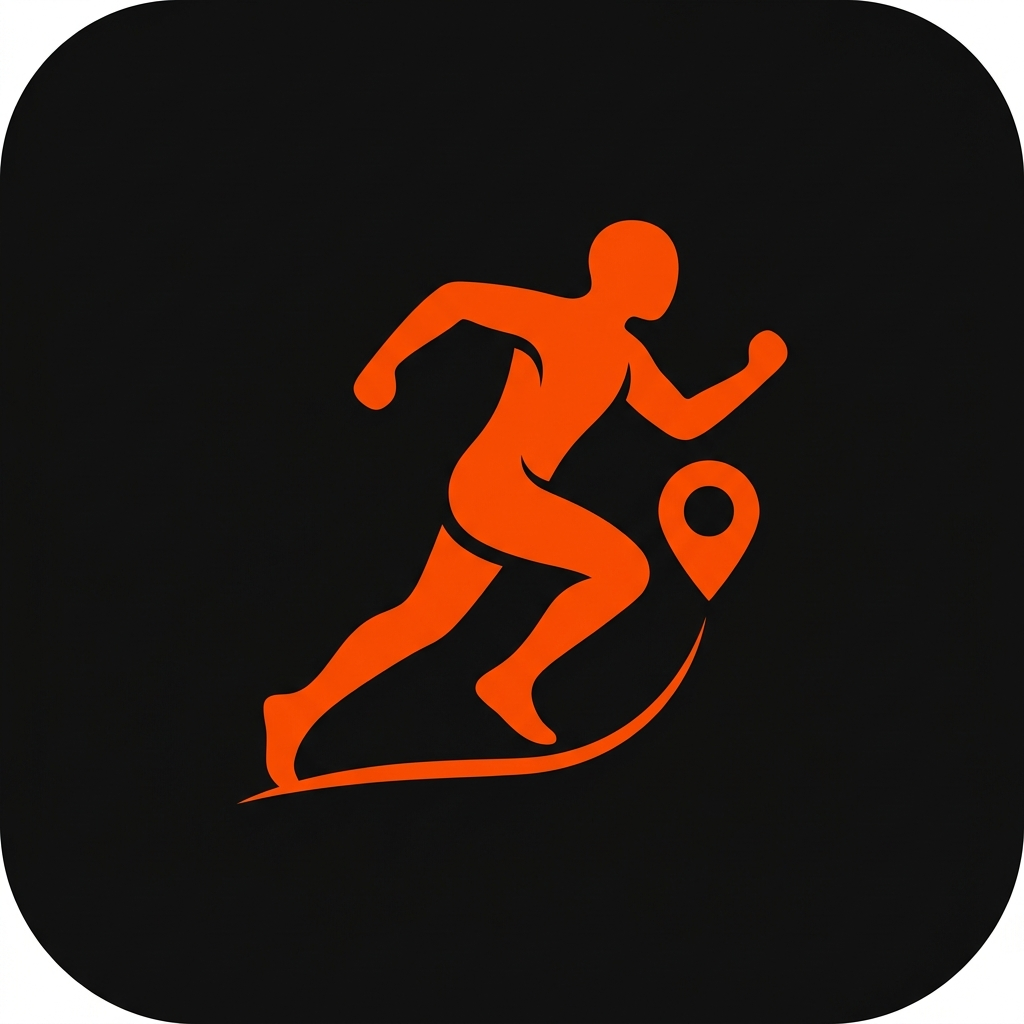
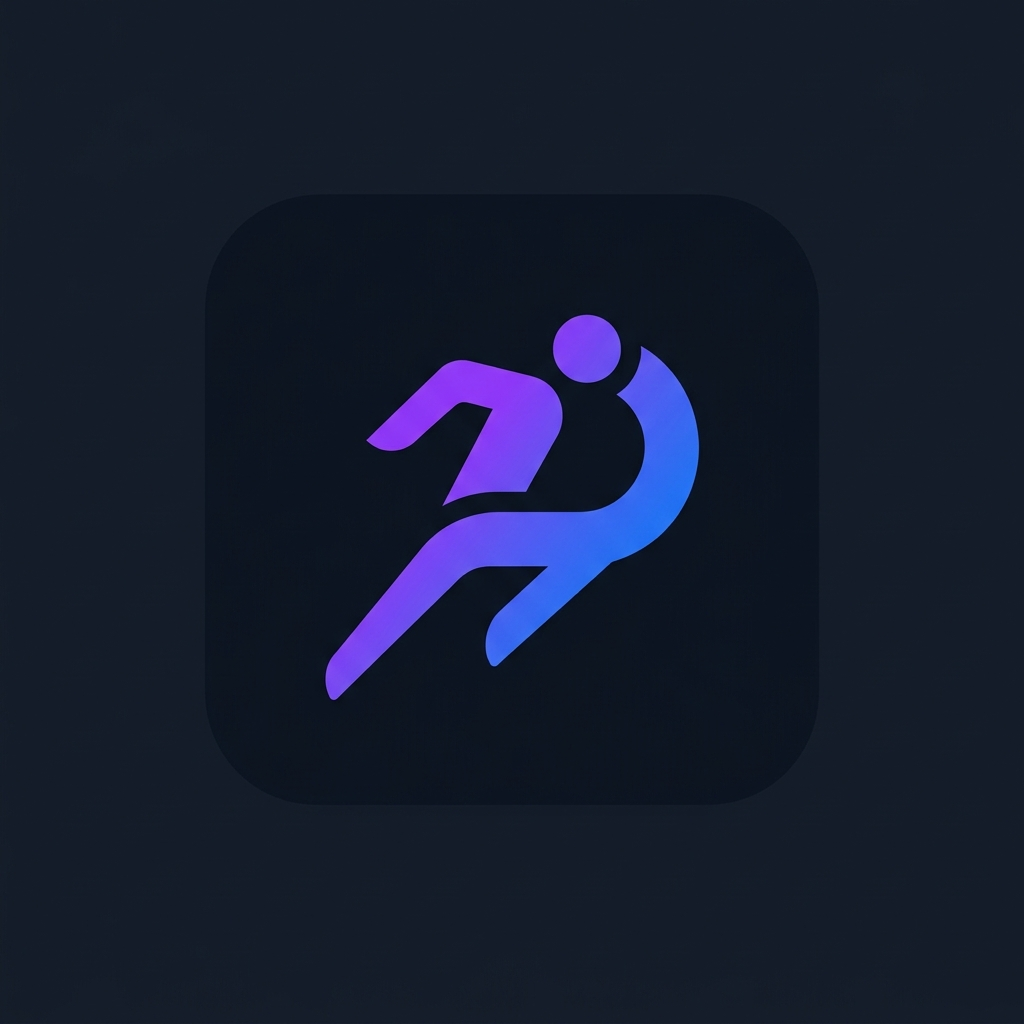
PACEMEET-full-rebrand-purple-blue-poppins

diff --git a/css/index.css b/css/index.css
@@ -1,8 +1,8 @@
 /* ============================================
-   RunTracker PWA — Design System & Base Styles
+   PACEMEET — Design System & Base Styles
    ============================================ */
 
-@import url('https://fonts.googleapis.com/css2?family=Inter:wght@400;500;600;700;800&display=swap');
+@import url('https://fonts.googleapis.com/css2?family=Poppins:wght@400;500;600;700;800&display=swap');
 
 /* === RESET === */
 *, *::before, *::after {
@@ -12,20 +12,21 @@
 }
 
 :root {
-  --bg-primary: #0d0d0d;
-  --bg-secondary: #1a1a1a;
-  --bg-tertiary: #2a2a2a;
-  --bg-elevated: #333333;
-  --accent: #FC4C02;
-  --accent-hover: #E8450A;
-  --accent-glow: rgba(252, 76, 2, 0.3);
-  --accent-subtle: rgba(252, 76, 2, 0.1);
+  --bg-primary: #111827;
+  --bg-secondary: #1E2536;
+  --bg-tertiary: #2D3548;
+  --bg-elevated: #374151;
+  --accent: #7C3AED;
+  --accent-hover: #6D28D9;
+  --accent-glow: rgba(124, 58, 237, 0.35);
+  --accent-subtle: rgba(124, 58, 237, 0.12);
+  --accent-secondary: #2563EB;
   --text-primary: #FFFFFF;
-  --text-secondary: #A0A0A0;
-  --text-muted: #666666;
-  --success: #00C853;
-  --warning: #FFD600;
-  --danger: #FF1744;
+  --text-secondary: #9CA3AF;
+  --text-muted: #6B7280;
+  --success: #10B981;
+  --warning: #F59E0B;
+  --danger: #EF4444;
   --space-xs: 4px;
   --space-sm: 8px;
   --space-md: 16px;
@@ -54,7 +55,7 @@ html {
 }
 
 body {
-  font-family: 'Inter', -apple-system, BlinkMacSystemFont, sans-serif;
+  font-family: 'Poppins', -apple-system, BlinkMacSystemFont, sans-serif;
   background: var(--bg-primary);
   color: var(--text-primary);
   height: 100%;

diff --git a/index.html b/index.html
@@ -3,11 +3,11 @@
 <head>
   <meta charset="UTF-8">
   <meta name="viewport" content="width=device-width, initial-scale=1.0, maximum-scale=1.0, user-scalable=no, viewport-fit=cover">
-  <meta name="theme-color" content="#FC4C02">
-  <meta name="description" content="RunTracker — App de corrida com GPS. Registre suas corridas, acompanhe distância, ritmo e rota em tempo real.">
+  <meta name="theme-color" content="#7C3AED">
+  <meta name="description" content="PACEMEET — Conectando pessoas através do mesmo ritmo. Registre suas corridas, acompanhe distância, ritmo e rota em tempo real.">
   <meta name="apple-mobile-web-app-capable" content="yes">
   <meta name="apple-mobile-web-app-status-bar-style" content="black-translucent">
-  <title>RunTracker — App de Corrida</title>
+  <title>PACEMEET — Conectando pelo ritmo</title>
   <link rel="manifest" href="manifest.json">
   <link rel="apple-touch-icon" href="icons/icon-192x192.png">
   <link rel="icon" type="image/png" href="icons/icon-192x192.png">
@@ -15,7 +15,7 @@
   <!-- Fonts -->
   <link rel="preconnect" href="https://fonts.googleapis.com">
   <link rel="preconnect" href="https://fonts.gstatic.com" crossorigin>
-  <link href="https://fonts.googleapis.com/css2?family=Inter:wght@400;500;600;700;800&display=swap" rel="stylesheet">
+  <link href="https://fonts.googleapis.com/css2?family=Poppins:wght@400;500;600;700;800&display=swap" rel="stylesheet">
 
   <!-- Leaflet CSS -->
   <link rel="stylesheet" href="https://unpkg.com/leaflet@1.9.4/dist/leaflet.css"
@@ -40,13 +40,14 @@
         <div class="onboarding-header">
           <div class="onboarding-logo">
             <div class="onboarding-logo-icon">
-              <svg width="40" height="40" viewBox="0 0 24 24" fill="none" stroke="#FC4C02" stroke-width="2" stroke-linecap="round" stroke-linejoin="round">
-                <circle cx="12" cy="12" r="10"/>
-                <polyline points="12 6 12 12 16 14"/>
+              <svg width="40" height="40" viewBox="0 0 24 24" fill="none" stroke="#7C3AED" stroke-width="2" stroke-linecap="round" stroke-linejoin="round">
+                <circle cx="12" cy="5" r="2.5" fill="#7C3AED" stroke="none"/>
+                <path d="M7 20l3-8 2.5 2.5L16 10" stroke-width="2.5"/>
+                <path d="M17 7l-4 3" stroke-width="2.5"/>
               </svg>
             </div>
-            <h1 class="onboarding-title">Run<span class="accent">Tracker</span></h1>
-            <p class="onboarding-subtitle">Seu app de corrida pessoal</p>
+            <h1 class="onboarding-title">PACE<span class="accent">MEET</span></h1>
+            <p class="onboarding-subtitle">Conectando pessoas através do mesmo ritmo.</p>
           </div>
         </div>
 

diff --git a/css/components.css b/css/components.css
@@ -9,8 +9,8 @@
 }
 
 @keyframes pulse-orange {
-  0%, 100% { box-shadow: 0 0 0 0 rgba(252, 76, 2, 0.5); }
-  50%      { box-shadow: 0 0 0 14px rgba(252, 76, 2, 0); }
+  0%, 100% { box-shadow: 0 0 0 0 rgba(124, 58, 237, 0.5); }
+  50%      { box-shadow: 0 0 0 14px rgba(124, 58, 237, 0); }
 }
 
 @keyframes blink {
@@ -19,9 +19,9 @@
 }
 
 @keyframes marker-pulse-anim {
-  0%   { transform: scale(1); box-shadow: 0 0 0 0 rgba(252, 76, 2, 0.5); }
-  70%  { transform: scale(1.3); box-shadow: 0 0 0 10px rgba(252, 76, 2, 0); }
-  100% { transform: scale(1); box-shadow: 0 0 0 0 rgba(252, 76, 2, 0); }
+  0%   { transform: scale(1); box-shadow: 0 0 0 0 rgba(124, 58, 237, 0.5); }
+  70%  { transform: scale(1.3); box-shadow: 0 0 0 10px rgba(124, 58, 237, 0); }
+  100% { transform: scale(1); box-shadow: 0 0 0 0 rgba(124, 58, 237, 0); }
 }
 
 
@@ -81,7 +81,7 @@
 
 .nav-item.active svg {
   color: var(--accent);
-  filter: drop-shadow(0 0 6px rgba(252, 76, 2, 0.5));
+  filter: drop-shadow(0 0 6px rgba(124, 58, 237, 0.5));
 }
 
 /* Active indicator dot */
@@ -586,7 +586,7 @@
   border-radius: var(--radius-full);
   background: var(--accent);
   border: 3px solid var(--text-primary);
-  box-shadow: 0 0 0 0 rgba(252, 76, 2, 0.5);
+  box-shadow: 0 0 0 0 rgba(124, 58, 237, 0.5);
   animation: marker-pulse-anim 2s ease-in-out infinite;
 }
 

diff --git a/css/onboarding.css b/css/onboarding.css
@@ -1,5 +1,5 @@
 /* ============================================
-   RunTracker PWA — Onboarding Styles
+   PACEMEET — Onboarding Styles
    ============================================ */
 
 /* === ONBOARDING PAGE === */
@@ -47,7 +47,7 @@
 
 @keyframes logo-pulse {
   0%, 100% { box-shadow: 0 0 30px var(--accent-glow); transform: scale(1); }
-  50% { box-shadow: 0 0 50px rgba(252, 76, 2, 0.4); transform: scale(1.03); }
+  50% { box-shadow: 0 0 50px rgba(124, 58, 237, 0.5); transform: scale(1.03); }
 }
 
 .onboarding-title {
@@ -179,7 +179,7 @@ input[type="date"].input-field::-webkit-calendar-picker-indicator {
   border-radius: var(--radius-xl);
   font-size: 1rem;
   font-weight: 600;
-  font-family: 'Inter', sans-serif;
+  font-family: 'Poppins', sans-serif;
   cursor: pointer;
   transition: all var(--transition-normal);
   box-shadow: 0 2px 8px rgba(0,0,0,0.2);
@@ -256,7 +256,7 @@ input[type="date"].input-field::-webkit-calendar-picker-indicator {
   border-radius: var(--radius-xl);
   font-size: 1rem;
   font-weight: 600;
-  font-family: 'Inter', sans-serif;
+  font-family: 'Poppins', sans-serif;
   cursor: pointer;
   transition: all var(--transition-normal);
 }
@@ -302,7 +302,7 @@ input[type="date"].input-field::-webkit-calendar-picker-indicator {
   border: none;
   color: var(--text-muted);
   font-size: 0.9rem;
-  font-family: 'Inter', sans-serif;
+  font-family: 'Poppins', sans-serif;
   cursor: pointer;
   margin-top: var(--space-lg);
   padding: var(--space-sm);

diff --git a/css/pages.css b/css/pages.css
@@ -180,7 +180,7 @@
   max-width: 28px;
   min-height: 3px;
   border-radius: 4px 4px 2px 2px;
-  background: rgba(252, 76, 2, 0.3);
+  background: rgba(124, 58, 237, 0.3);
   transition: height 0.6s cubic-bezier(0.34, 1.56, 0.64, 1);
 }
 
@@ -392,7 +392,7 @@
 }
 
 .sport-pill.active {
-  background: rgba(252, 76, 2, 0.15);
+  background: rgba(124, 58, 237, 0.15);
   border-color: var(--accent);
   color: var(--accent);
 }
@@ -602,7 +602,7 @@
 .filter-pill:active { transform: scale(0.95); }
 
 .filter-pill.active {
-  background: rgba(252, 76, 2, 0.15);
+  background: rgba(124, 58, 237, 0.15);
   border-color: var(--accent);
   color: var(--accent);
 }

diff --git a/js/ui.js b/js/ui.js
@@ -1,5 +1,5 @@
 // ============================================================
-// RunTracker — UI Rendering Module
+// PACEMEET — UI Rendering Module
 // Handles all DOM rendering and user interactions
 // ============================================================
 
@@ -705,7 +705,7 @@ const UI = {
     const url = URL.createObjectURL(blob);
     const a = document.createElement('a');
     a.href = url;
-    a.download = `runtracker-export-${new Date().toISOString().slice(0, 10)}.json`;
+    a.download = `pacemeet-export-${new Date().toISOString().slice(0, 10)}.json`;
     document.body.appendChild(a);
     a.click();
     document.body.removeChild(a);

diff --git a/js/app.js b/js/app.js
@@ -1,5 +1,5 @@
 // ============================================================
-// RunTracker — Main Application Module
+// PACEMEET — Main Application Module
 // Router, recording logic, and app initialization
 // ============================================================
 

diff --git a/js/cloud.js b/js/cloud.js
@@ -1,5 +1,5 @@
 // ============================================================
-// RunTracker — Firebase Cloud Storage Module
+// PACEMEET — Firebase Cloud Storage Module
 // Uses Google Sign-In + Realtime Database
 // ============================================================
 

diff --git a/sw.js b/sw.js
@@ -3,7 +3,7 @@
 // Cache-first strategy for app shell, network-first for data
 // ============================================================
 
-const CACHE_NAME = 'runtracker-v20';
+const CACHE_NAME = 'pacemeet-v1';
 const STATIC_ASSETS = [
   './',
   './index.html',